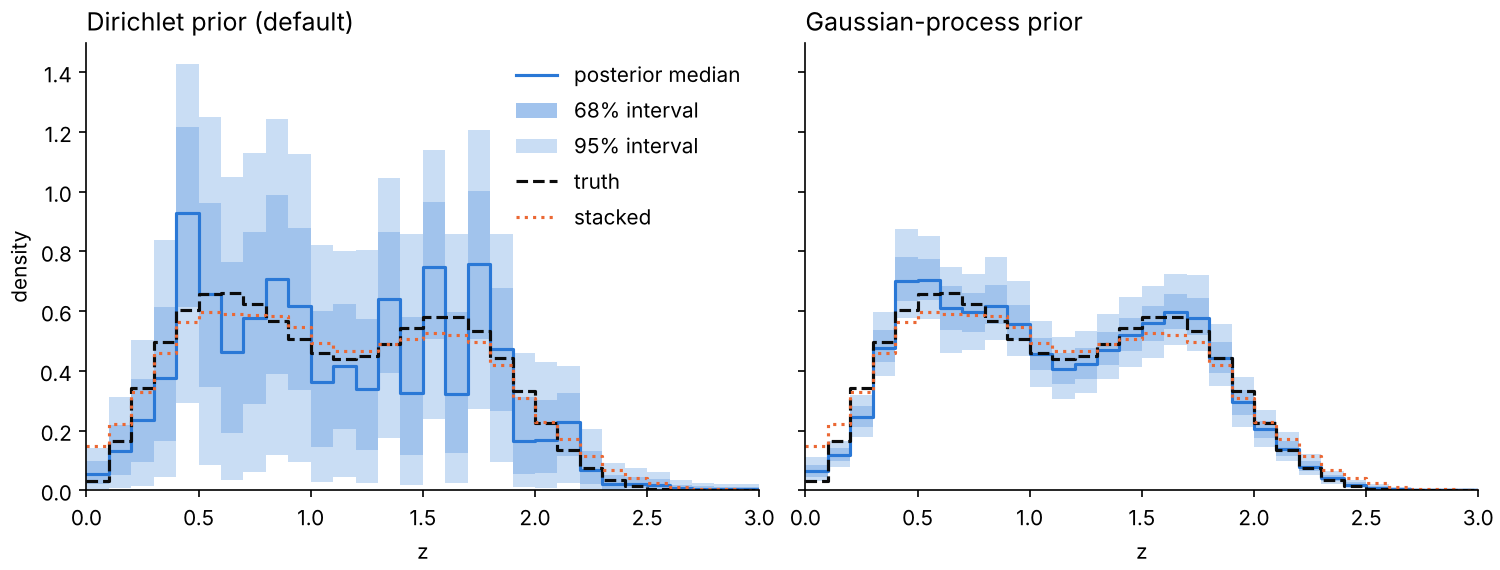
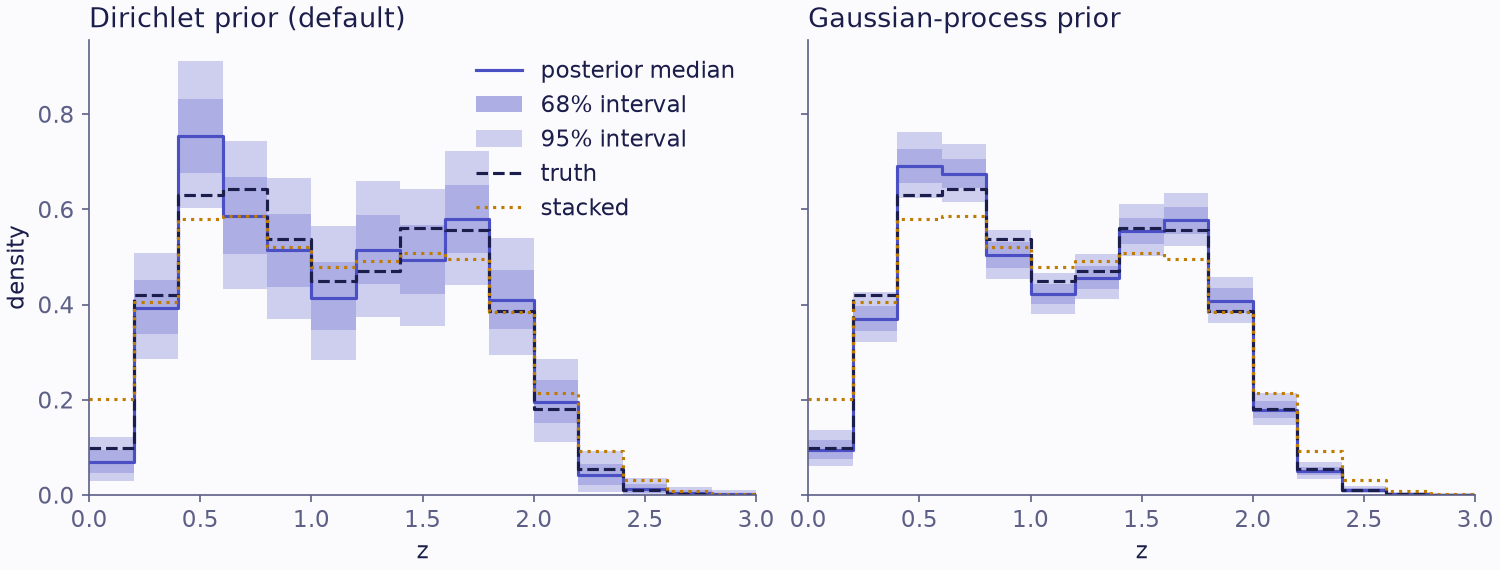
Fix the Start review findings
Regenerate the README figure from the 15-bin example beside it, state the
principles' limits exactly, restore the alpha status and citing link, run
the home page's snippet in CI, and keep words whole only in table cells.

Claude-Session: https://claude.ai/code/session_01De68Qguk82R9FGTNQYmYnz

diff --git a/docs/_themes/binference/static/binference.css b/docs/_themes/binference/static/binference.css
@@ -24,7 +24,7 @@ body {
   -webkit-text-size-adjust: 100%;
   text-rendering: optimizeLegibility;
 }
-a { color: var(--b-link); text-underline-offset: 2px; text-decoration-thickness: 1px; overflow-wrap: break-word; }
+a { color: var(--b-link); text-underline-offset: 2px; text-decoration-thickness: 1px; overflow-wrap: anywhere; }
 a:hover { text-decoration-thickness: 2px; }
 :focus-visible { outline: var(--b-focus) solid var(--b-link); outline-offset: 2px; }
 img, svg { max-width: 100%; height: auto; }
@@ -174,7 +174,7 @@ blockquote { margin: 1rem 0; padding: 0 0 0 1rem; border-left: 1px solid var(--b
 /* inline code */
 code, kbd { font-family: var(--b-font-mono); font-size: .88em; }
 :not(pre) > code {
-  background: var(--b-surface); padding: 1px 4px; overflow-wrap: break-word;
+  background: var(--b-surface); padding: 1px 4px; overflow-wrap: anywhere;
 }
 :not(pre) > code span.pre { white-space: normal; }  /* basic.css sets nowrap, which defeats the wrap */
 a code.literal { color: inherit; }
@@ -266,6 +266,8 @@ table.docutils thead th {
   background: none;
 }
 table.docutils td p, table.docutils th p { margin: 0; }
+/* tables scroll sideways, so their cells keep words whole */
+table.docutils td a, table.docutils td code { overflow-wrap: break-word; }
 table caption { caption-side: top; text-align: left; color: var(--b-ink-2); font-size: .86rem; padding-bottom: 6px; }
 div.math { overflow-x: auto; overflow-y: hidden; }
 span.eqno { float: right; color: var(--b-ink-2); }

diff --git a/docs/_scripts/quickstart_figure.py b/docs/_scripts/quickstart_figure.py
@@ -1,6 +1,8 @@
 """Regenerate docs/_static/quickstart.png (the README figure).
 
-Run from the repository root: ``python docs/_scripts/quickstart_figure.py``.
+Run from the repository root, with the docs style:
+``MATPLOTLIBRC=docs/_ext/matplotlibrc python docs/_scripts/quickstart_figure.py``.
+It fits the example of the README and the home page.
 """
 
 import matplotlib
@@ -10,8 +12,10 @@ import matplotlib.pyplot as plt
 
 import binference
 
-mock = binference.simulate.mock_1d(2000, rng=42)
-lk = mock.likelihoods
+bins = binference.Bins.linear(0.0, 3.0, 15)
+mock = binference.simulate.mock_1d(2000, bins, rng=42)
+z_obs, z_err = mock.measurements["mean"], mock.measurements["sigma"]
+lk = binference.Likelihoods.from_gaussian(z_obs, z_err, bins)
 stack = lk.stack()
 
 flat = binference.infer(lk, rng=1)

diff --git a/docs/start/principles.md b/docs/start/principles.md
@@ -8,15 +8,17 @@ tune every part. Doing the analysis properly should be easier than the shortcuts
 replaces, such as {term}`stacking` per-object posteriors or counting each object's most
 likely class. Eleven principles follow from that aim.
 
-1. **Correct by construction.** The table, density and sample constructors ask whether
-   you pass a likelihood or a posterior, and under which {term}`interim prior`. They
-   refuse to guess ({doc}`../guides/inputs`).
+1. **Correct by construction.** The table and density constructors ask whether you
+   pass a likelihood or a posterior, and posteriors and samples need their
+   {term}`interim prior`. Only a plain array is read as likelihoods without asking
+   ({doc}`../guides/inputs`).
 2. **Easy things in one line, hard things possible.** `binference.infer` covers the
    common case. The model and {term}`engine` objects beneath it are public, and so are
    the log densities and gradients that external samplers need.
 3. **Exact by default, approximations labelled.** The default `method="auto"` returns
-   exact or importance-corrected draws. `result.approximate` flags an
-   {term}`approximate` result ({doc}`../guides/engines`).
+   exact draws, or importance-corrected draws that passed their check. Any other
+   result is flagged {term}`approximate` (`result.approximate`;
+   {doc}`../guides/engines`).
 4. **Self-validating.** `infer` checks every Gibbs and NUTS fit for convergence. For
    other results, including point estimates, call `check()`
    ({doc}`../guides/validation`).
@@ -29,7 +31,8 @@ likely class. Eleven principles follow from that aim.
    an argument.
 8. **Defaults chosen from evidence and reported.** The engine choice of
    `method="auto"` follows rules measured on a benchmark, and the result says which
-   rule applied. The {doc}`../reference/defaults` page lists every default.
+   rule applied. The {doc}`../reference/defaults` page lists the thresholds and
+   constants; each parameter's default is in its signature in the API reference.
 9. **Your bins define the problem.** A finer B-spline {class}`~binference.Basis` or a
    {term}`measure` refines your bins, and binference reports results on them.
 10. **Uncertain inputs modelled jointly by default.** binference infers a

diff --git a/docs/start/is-it-right.md b/docs/start/is-it-right.md
@@ -14,7 +14,7 @@ tutorials that use it.
 
 | You have, for each object | binference reads it with | Read more |
 |---|---|---|
-| a measured value and its Gaussian error | `Likelihoods.from_gaussian` | [guide](../guides/inputs.md#gaussian-measurements), {doc}`tutorial 1 <../tutorials/01_quickstart>`, {doc}`tutorial 9 <../tutorials/09_empirical_bayes>` |
+| a measured value and its Gaussian error | `Likelihoods.from_gaussian` | [guide](../guides/inputs.md#gaussian-measurements), {doc}`quick start <quickstart>`, {doc}`tutorial 9 <../tutorials/09_empirical_bayes>` |
 | likelihoods or log-likelihoods on the bins | `Likelihoods.from_table` | [guide](../guides/inputs.md#likelihood-matrices), {doc}`tutorial 10 <../tutorials/10_mixed_stocks>` |
 | a likelihood function or a SciPy distribution | `Likelihoods.from_density` | [guide](../guides/inputs.md#likelihood-functions-and-distributions) |
 | a posterior on the bins, and the prior it was computed under | `Likelihoods.from_table` | [guide](../guides/inputs.md#posteriors-computed-under-an-interim-prior), {doc}`tutorial 2 <../tutorials/02_inputs>` |

diff --git a/CONTRIBUTING.md b/CONTRIBUTING.md
@@ -69,7 +69,7 @@ pytest --cov=binference         # coverage report
 pip install -e ".[docs]"
 sphinx-build -W --keep-going -b html docs docs/_build/html
 # the code of the README, installation page and guides
-python docs/_scripts/run_snippets.py README.md docs/start/install.md docs/guides/*.md
+python docs/_scripts/run_snippets.py README.md docs/index.md docs/start/install.md docs/guides/*.md
 # external links and the bibliography's DOIs (CI runs these weekly)
 BINFERENCE_DOCS_EXECUTE=off sphinx-build -b linkcheck docs docs/_build/linkcheck
 python docs/_scripts/check_dois.py

diff --git a/README.md b/README.md
@@ -57,6 +57,13 @@ To contribute, see [`CONTRIBUTING.md`][contributing].
 
 [contributing]: https://github.com/joshspeagle/binference/blob/main/CONTRIBUTING.md
 
+## Status and citing
+
+binference is alpha software, and its API may change before 1.0. If you use it, please
+cite it as described on the [citing page][citing].
+
+[citing]: https://joshspeagle.github.io/binference/reference/citing.html
+
 ## License
 
 MIT; see [LICENSE](https://github.com/joshspeagle/binference/blob/main/LICENSE).

diff --git a/docs/start/quickstart.md b/docs/start/quickstart.md
@@ -125,7 +125,7 @@ result.assignment_probabilities()[0].round(2)
 
 ## Next
 
-- {doc}`../tutorials/01_quickstart` continues this example: stacking, correlated bins,
+- {doc}`../tutorials/01_quickstart` goes further with a similar mock: stacking, correlated bins,
   smoothness priors and the {term}`realised sample`.
 - The {doc}`results guide <../guides/results>` lists everything a result holds.
 - The {doc}`engines guide <../guides/engines>` explains how `method="auto"` chooses.

diff --git a/docs/start/install.md b/docs/start/install.md
@@ -26,8 +26,8 @@ To work on binference itself, follow the set-up in the
 
 ## Check the installation
 
-This fits a simulated catalogue of 500 objects on 10 bins and prints the fitted
-population fractions.
+This prints the installed version, then fits a simulated catalogue of 500 objects on
+10 bins and prints the fitted population fractions.
 
 ```python
 import binference
